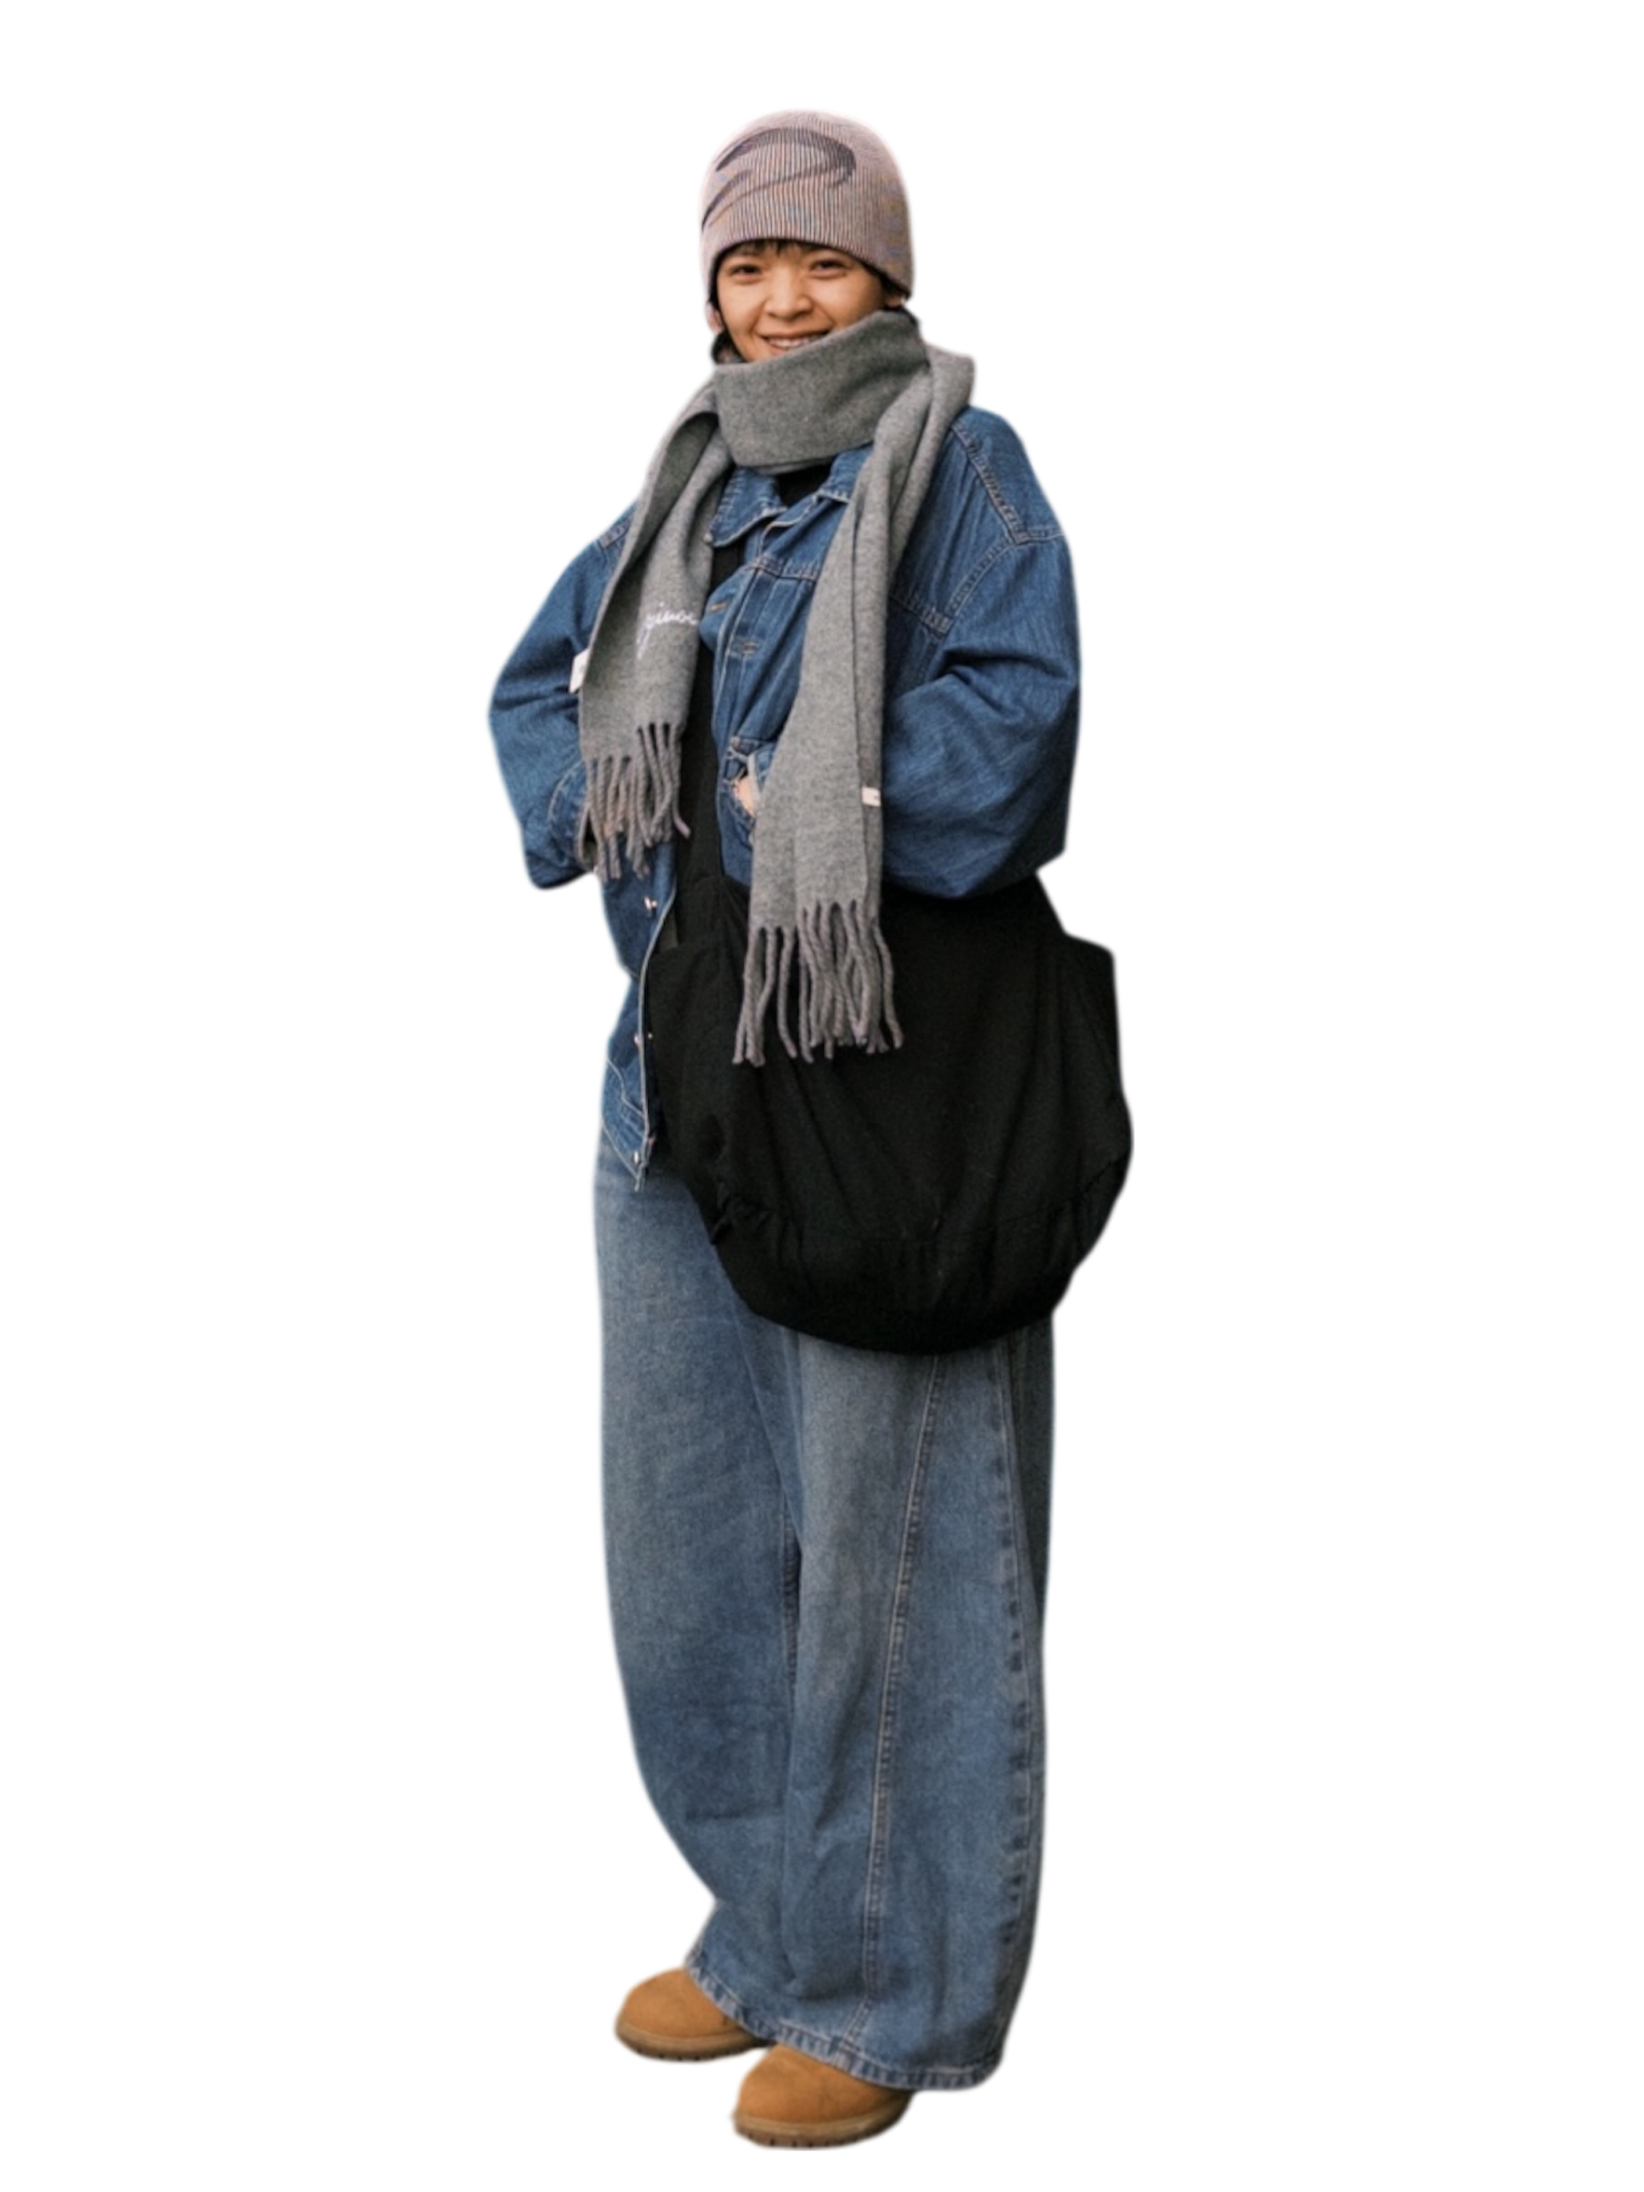
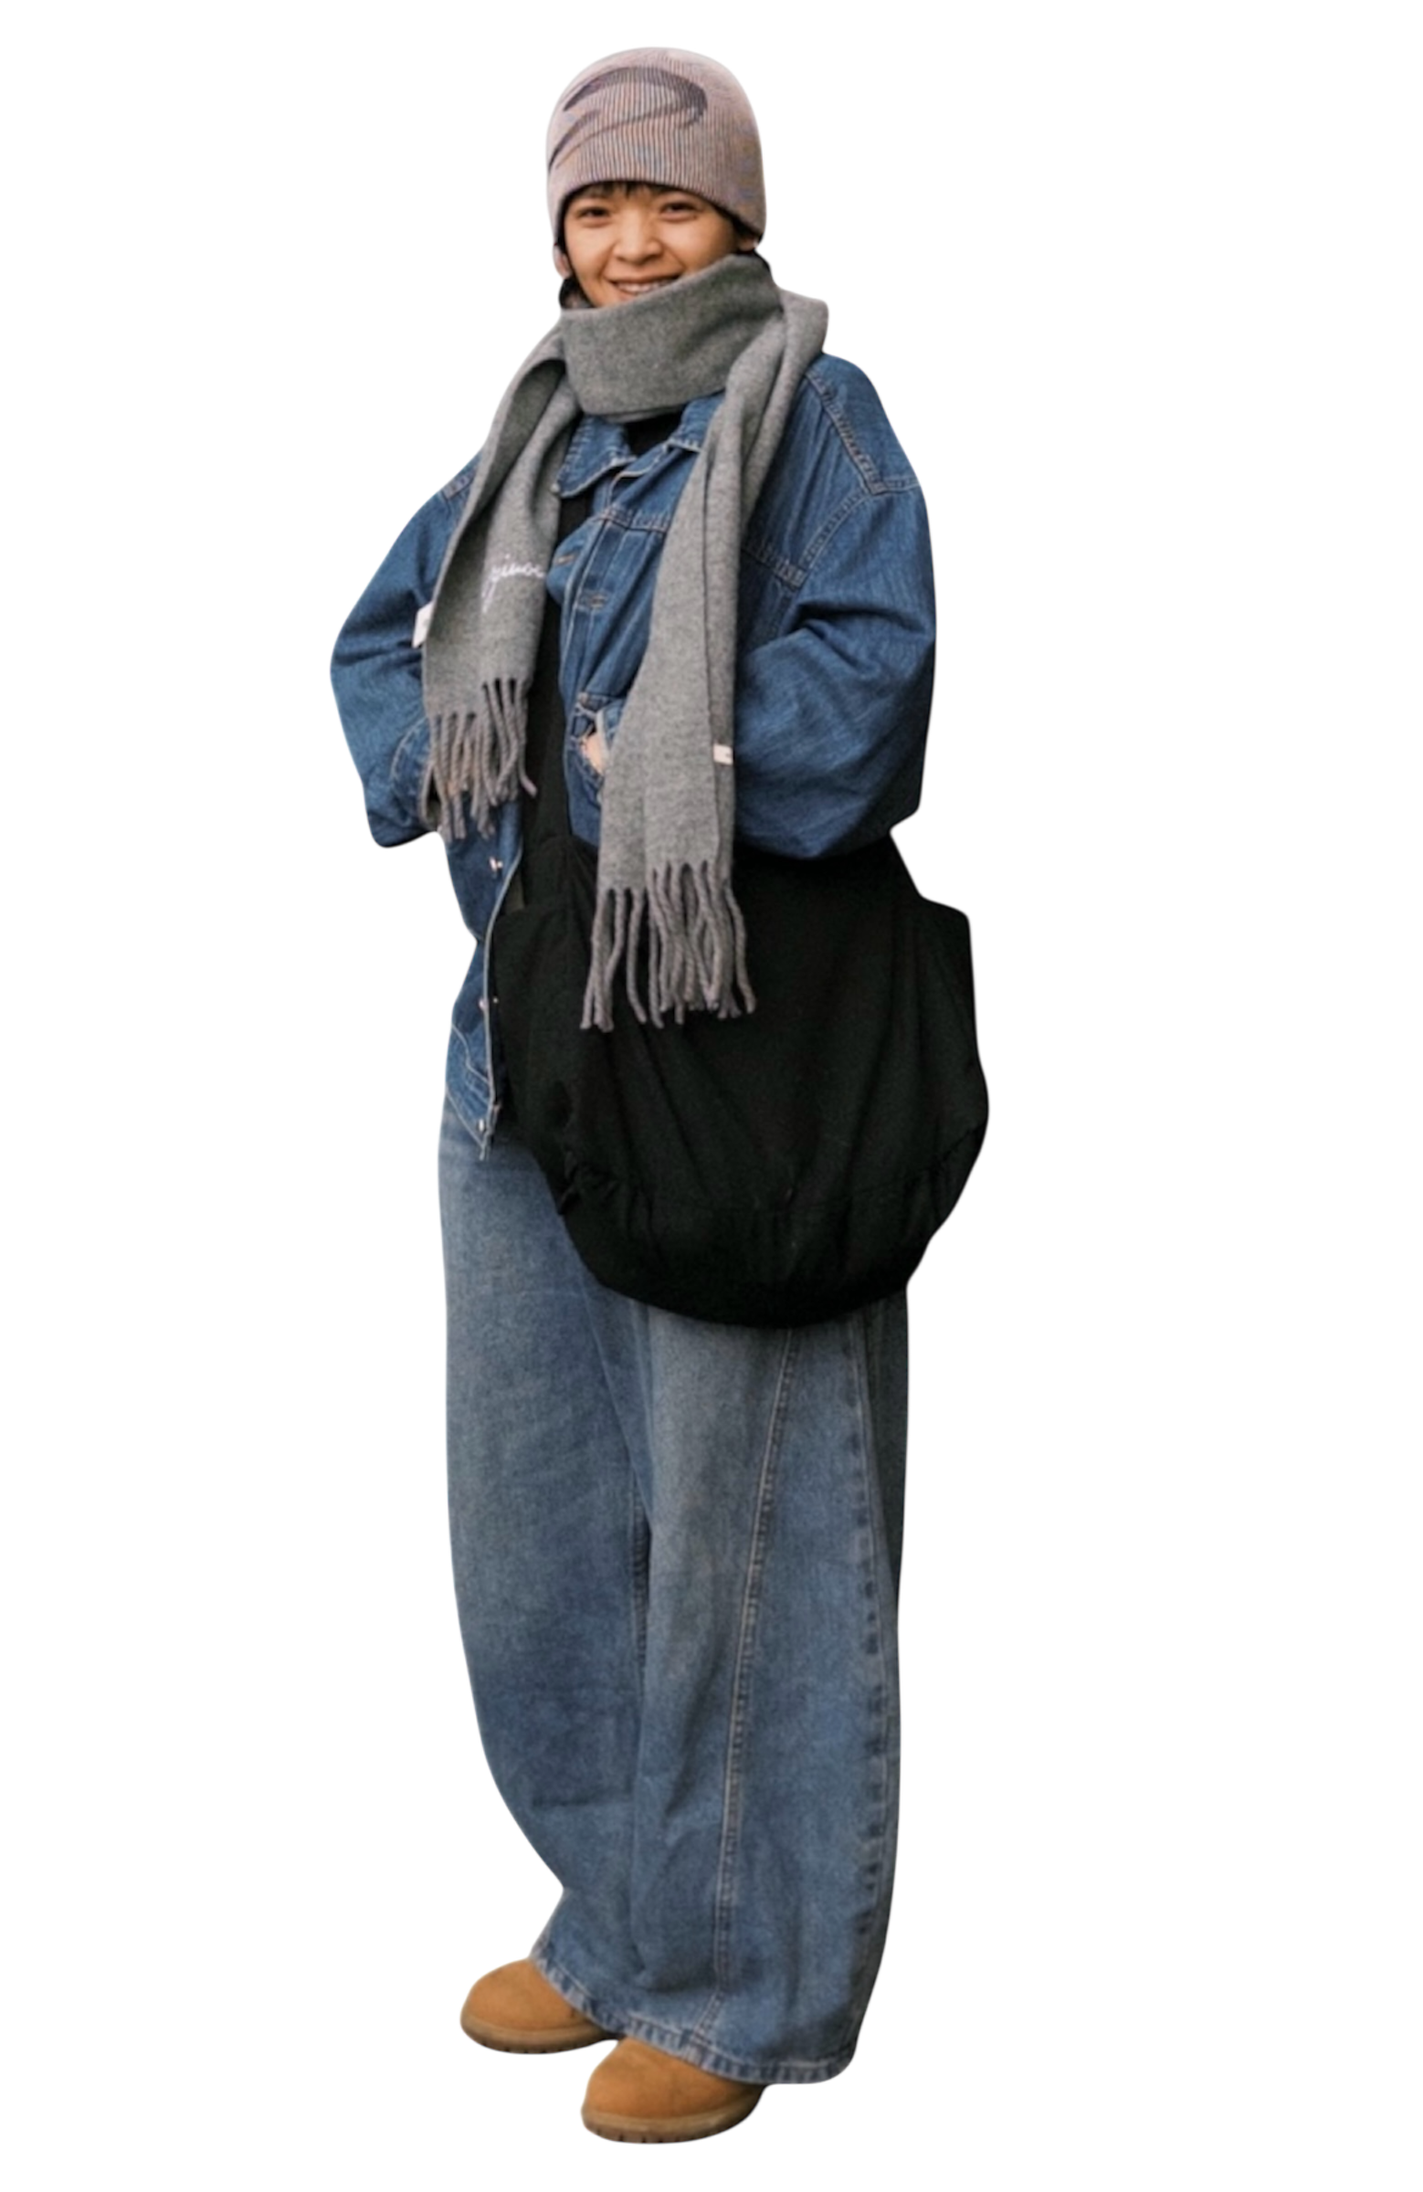
uypdate

Changed region(s): [[0.2157, 0.0, 0.7086, 1.0]]

diff --git a/styles.css b/styles.css
@@ -44,12 +44,15 @@ body {
         transform: translateY(100vh) rotate(0deg);
         opacity: 0;
     }
+
     10% {
         opacity: 0.7;
     }
+
     90% {
         opacity: 0.7;
     }
+
     100% {
         transform: translateY(-100px) rotate(720deg);
         opacity: 0;
@@ -66,20 +69,56 @@ body {
     filter: drop-shadow(0 10px 20px rgba(0, 0, 0, 0.3));
 }
 
+#button-container-iloveyou2 {
+    position: absolute;
+    bottom: 20%;
+    left: 10%;
+    animation: pulse 1.2s ease-in-out infinite;
+    display: none;
+}
+
+#button-container-iloveyou1 {
+    position: absolute;
+    bottom: 20%;
+    right: 10%;
+    animation: pulse 1.2s ease-in-out infinite;
+    display: none;
+
+
+}
+
+@keyframes pulse {
+    0% {
+        transform: scale(1);
+    }
+
+    50% {
+        transform: scale(1.2);
+        /* to hơn */
+    }
+
+    100% {
+        transform: scale(1);
+    }
+}
+
+
 #person1 {
     left: 50px;
     width: 18vw;
+    bottom: 2%;
+
 }
 
 #person2 {
     right: 50px;
-    width: 20vw;
+    width: 18vw;
 }
 
 /* Together Image */
 .together-image {
     position: fixed;
-    width: 20vw;
+    width: 18vw;
     height: auto;
     bottom: 0%;
     left: 50%;
@@ -128,9 +167,12 @@ body {
 }
 
 @keyframes pulse-button {
-    0%, 100% {
+
+    0%,
+    100% {
         box-shadow: 0 10px 30px rgba(233, 30, 99, 0.5);
     }
+
     50% {
         box-shadow: 0 10px 40px rgba(233, 30, 99, 0.8);
     }
@@ -150,6 +192,7 @@ body {
         opacity: 1;
         transform: translate(0, 0) scale(0.5) rotate(0deg);
     }
+
     100% {
         opacity: 0;
         transform: translate(var(--tx), var(--ty)) scale(1.5) rotate(720deg);
@@ -161,15 +204,15 @@ body {
     .person-image {
         width: 200px;
     }
-    
+
     #person1 {
         left: 20px;
     }
-    
+
     #person2 {
         right: 20px;
     }
-    
+
     .move-btn {
         padding: 15px 30px;
         font-size: 16px;
@@ -198,9 +241,12 @@ body {
 }
 
 @keyframes pulse-text {
-    0%, 100% {
+
+    0%,
+    100% {
         transform: scale(1);
     }
+
     50% {
         transform: scale(1.05);
     }
@@ -218,15 +264,20 @@ body {
 }
 
 @keyframes heartbeat {
-    0%, 100% {
+
+    0%,
+    100% {
         transform: scale(1);
     }
+
     25% {
         transform: scale(1.1);
     }
+
     50% {
         transform: scale(1);
     }
+
     75% {
         transform: scale(1.15);
     }
@@ -297,6 +348,7 @@ body {
         opacity: 0;
         transform: translateY(20px);
     }
+
     to {
         opacity: 1;
         transform: translateY(0);
@@ -327,16 +379,33 @@ body {
     animation: bounce 0.5s ease infinite;
 }
 
-.hearts-row span:nth-child(1) { animation-delay: 0s; }
-.hearts-row span:nth-child(2) { animation-delay: 0.1s; }
-.hearts-row span:nth-child(3) { animation-delay: 0.2s; }
-.hearts-row span:nth-child(4) { animation-delay: 0.3s; }
-.hearts-row span:nth-child(5) { animation-delay: 0.4s; }
+.hearts-row span:nth-child(1) {
+    animation-delay: 0s;
+}
+
+.hearts-row span:nth-child(2) {
+    animation-delay: 0.1s;
+}
+
+.hearts-row span:nth-child(3) {
+    animation-delay: 0.2s;
+}
+
+.hearts-row span:nth-child(4) {
+    animation-delay: 0.3s;
+}
+
+.hearts-row span:nth-child(5) {
+    animation-delay: 0.4s;
+}
 
 @keyframes bounce {
-    0%, 100% {
+
+    0%,
+    100% {
         transform: translateY(0);
     }
+
     50% {
         transform: translateY(-10px);
     }
@@ -361,10 +430,12 @@ body {
         opacity: 1;
         transform: scale(0);
     }
+
     50% {
         opacity: 1;
         transform: scale(1.5);
     }
+
     100% {
         opacity: 0;
         transform: scale(2) translateY(-100px);
@@ -376,11 +447,11 @@ body {
     .title {
         font-size: 1.8rem;
     }
-    
+
     .heart-icon {
         font-size: 60px;
     }
-    
+
     .content {
         padding: 25px;
     }

diff --git a/index.html b/index.html
@@ -1,23 +1,30 @@
 <!DOCTYPE html>
 <html lang="en">
+
 <head>
     <meta charset="UTF-8">
     <meta name="viewport" content="width=device-width, initial-scale=1.0">
     <title>Happy Valentine's Day 💕</title>
     <link rel="stylesheet" href="styles.css">
 </head>
+
 <body>
     <div class="container">
         <!-- Floating Hearts Background -->
         <div class="hearts-container" id="heartsContainer"></div>
-        
+
         <!-- Person Images -->
         <img src="Images/person_1.png" alt="Person 1" class="person-image" id="person1">
         <img src="Images/person_2.png" alt="Person 2" class="person-image" id="person2">
-        
+
         <!-- Together Image (hidden initially) -->
         <img src="Images/together.png" alt="Together" class="together-image" id="together">
-        
+        <div id="button-container-iloveyou2">
+            <button class="move-btn">You are my valentine 💕</button>
+        </div>
+        <div id="button-container-iloveyou1">
+            <button class="move-btn">Yêu em lắm. Vyiuoi 💕</button>
+        </div>
         <!-- Button Container -->
         <div class="button-container">
             <button id="moveBtn" class="move-btn">Bring Them Closer 💕</button>
@@ -27,4 +34,5 @@
     <script src="https://code.jquery.com/jquery-3.7.1.min.js"></script>
     <script src="script.js"></script>
 </body>
+
 </html>

diff --git a/script.js b/script.js
@@ -101,6 +101,10 @@ $(document).ready(function() {
             // Show together image after a delay
             setTimeout(function() {
                 $('#together').addClass('show');
+                $('#button-container-iloveyou2').css('display', 'block');
+                $('#button-container-iloveyou1').css('display', 'block');
+
+
             }, 700);
             
             // Hide button
@@ -117,7 +121,7 @@ $(document).ready(function() {
         } else {
             // Update button text with progress
             const remaining = maxClicks - clickCount;
-            $(this).text(`Bring Them Closer 💕 (${remaining} more)`);
+            $(this).text(`Bring Them Closer 💕`);
         }
     });
 });
